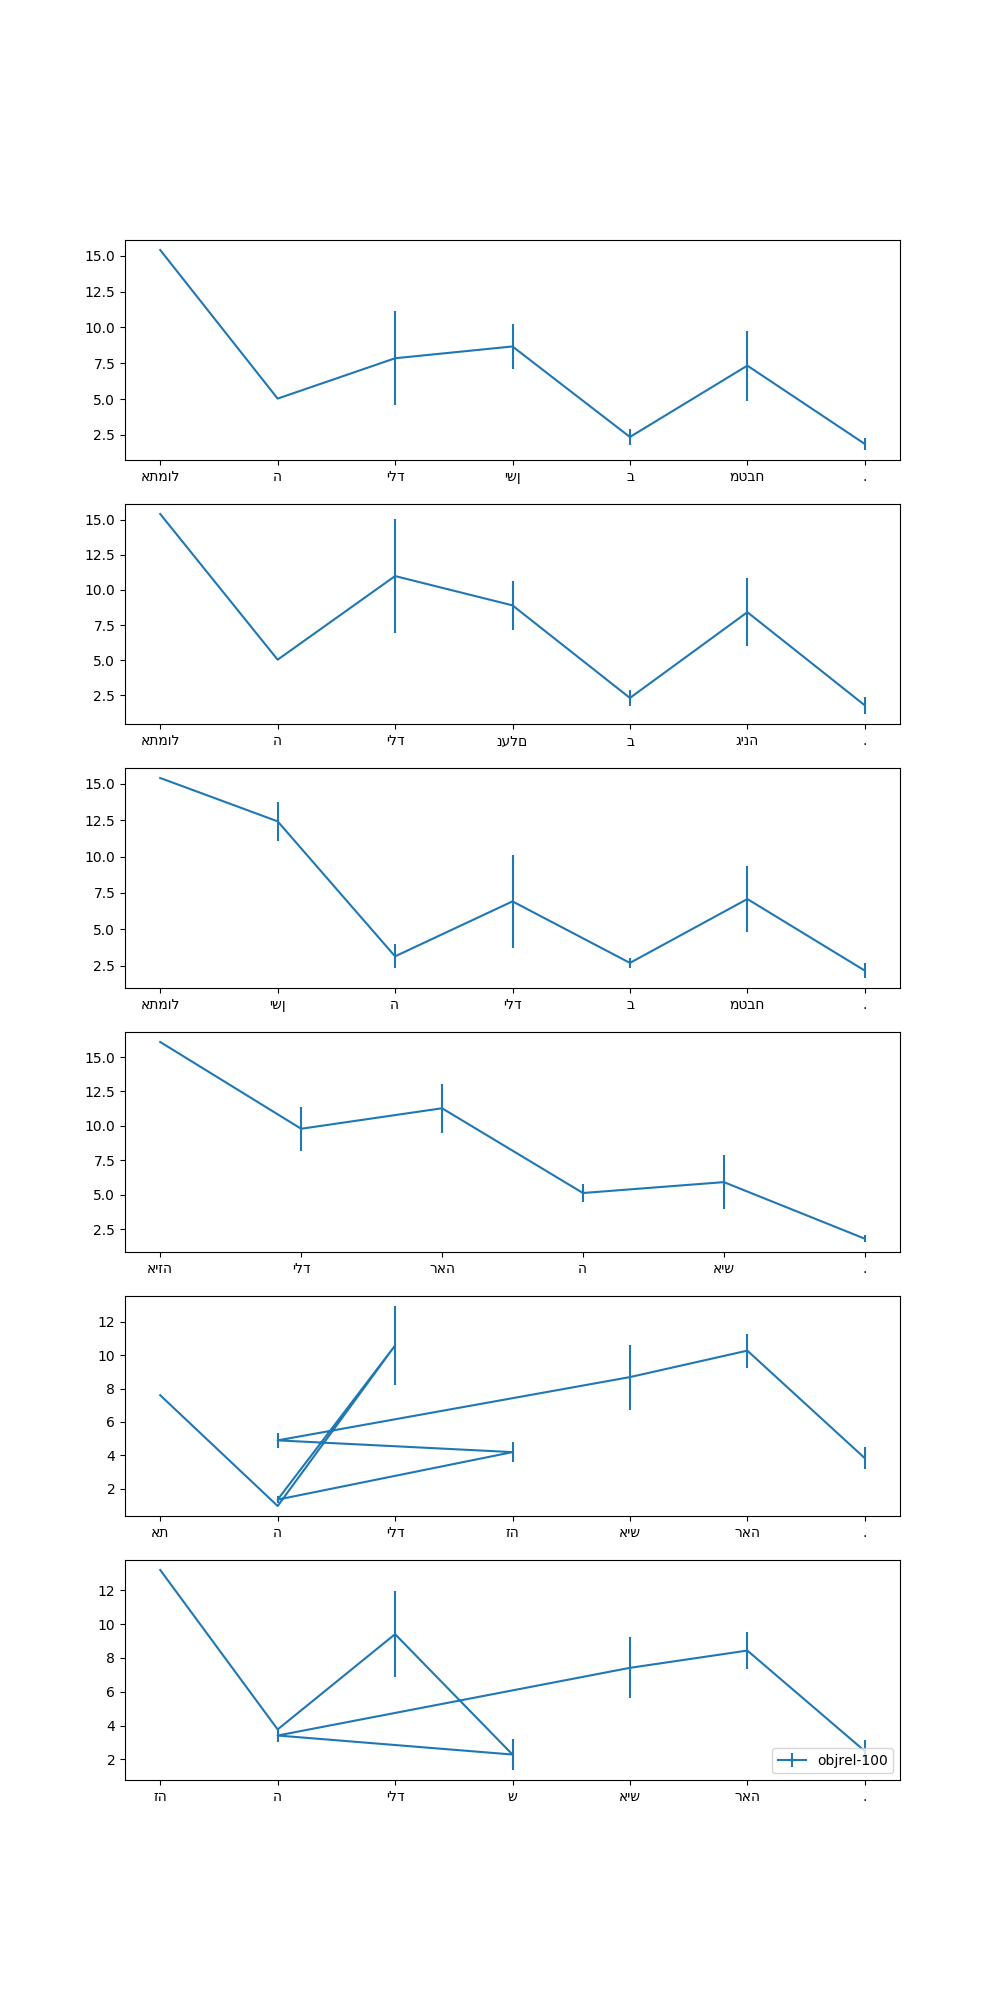
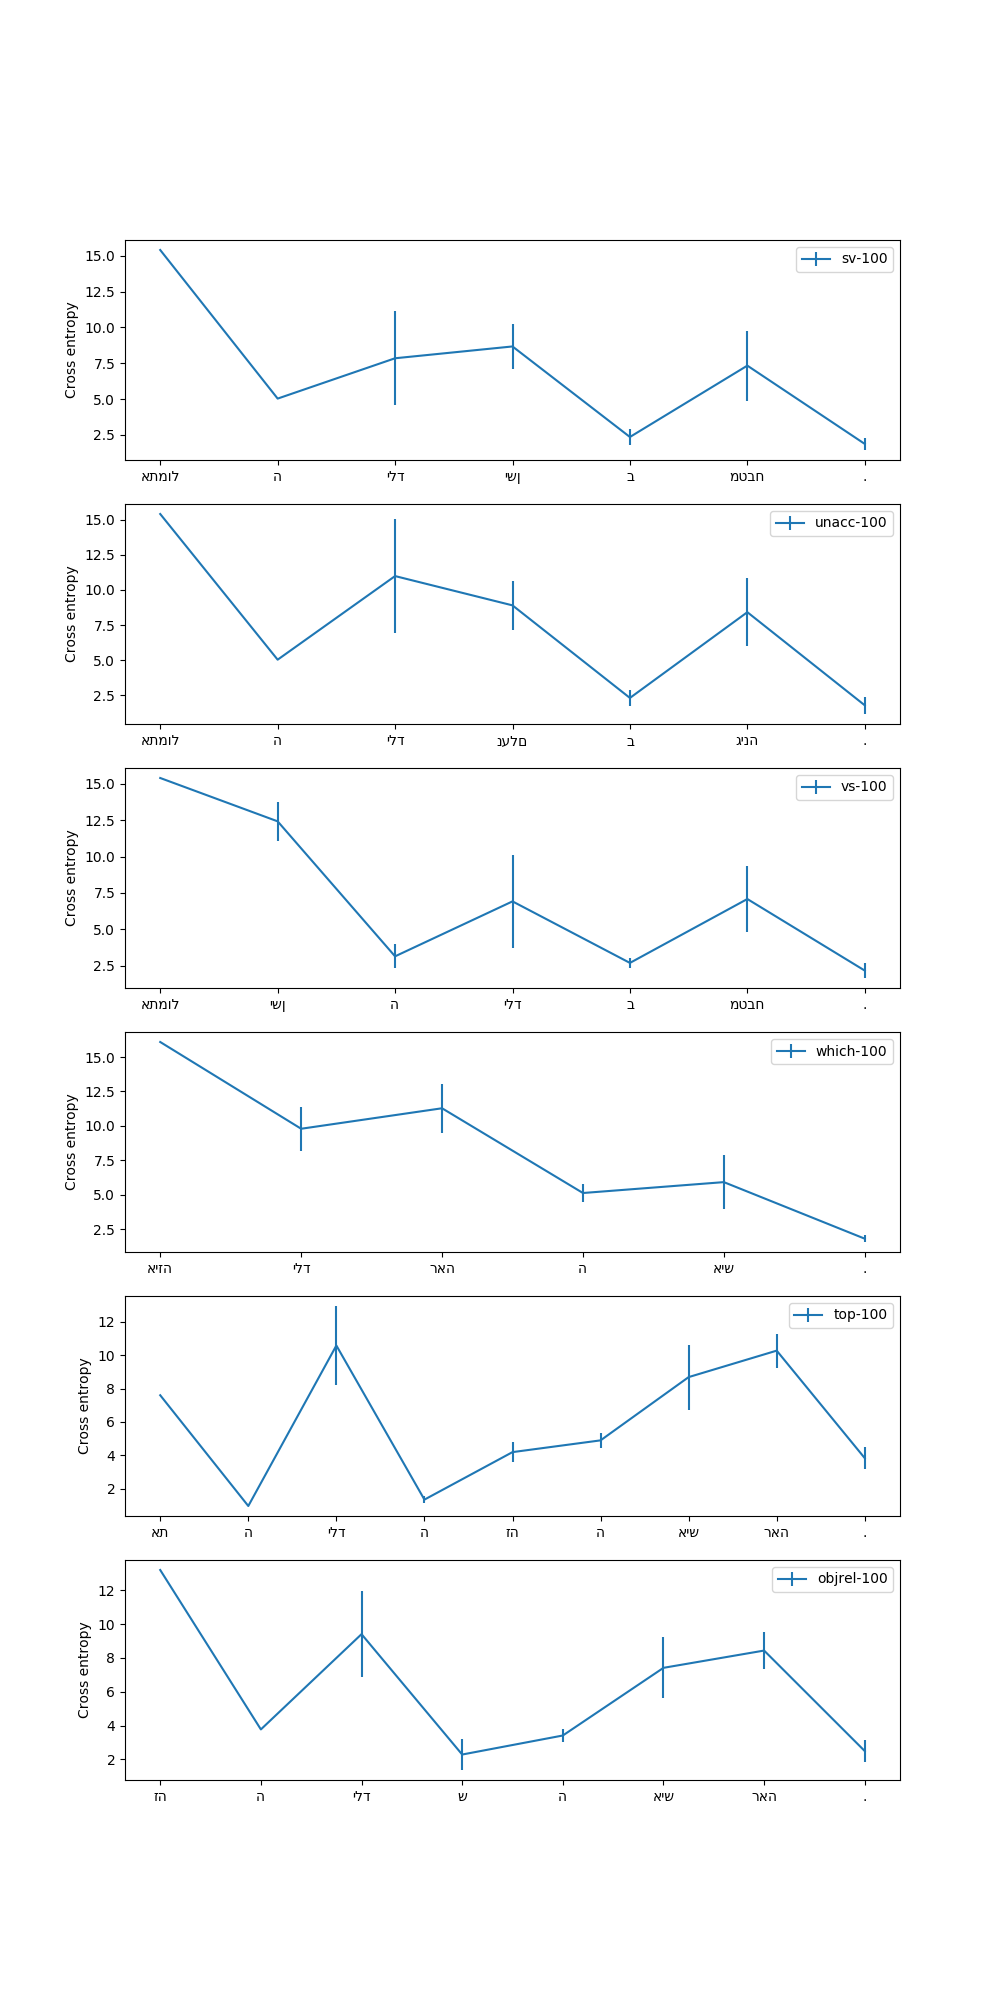
ppl plots

diff --git a/code/get_perplexities.py b/code/get_perplexities.py
@@ -3,6 +3,7 @@ import sys
 import os
 import torch
 import argparse
+import lstm
 #print(os.path.abspath(os.path.join(os.path.dirname(os.path.realpath(__file__)), '../word_language_model')))
 sys.path.append(os.path.abspath(os.path.join(os.path.dirname(os.path.realpath(__file__)), 'word_language_model')))
 import data
@@ -48,43 +49,19 @@ def feed_sentence(model, h, sentence):
 # Vocabulary
 vocab = data.Dictionary(args.vocabulary)
 
-#dir2vocab = os.path.dirname(args.vocabulary)
-#corpus = data.Corpus(dir2vocab)
-#vocab = corpus.dictionary
-#print(vocab)
-#with open(os.path.join(dir2vocab, 'vocab.txt'), 'w') as f:
-#    for item in vocab.idx2word:
-#        f.write("%s\n" % item)
-#raise()
-
-#vocab = data.Dictionary()
-#with open(os.path.join(args.vocabulary), 'r') as f:
-#    vocab.idx2word = f.readlines()
-#    vocab.idx2word = [l.strip() for l in vocab.idx2word]
-#    for (ix, w) in enumerate(vocab.idx2word):
-#        vocab.word2idx[w] = ix
-
 # Sentences
 sentences = [l.rstrip('\n').split(' ') for l in open('../data/stimuli/' + args.task + '.txt', encoding='utf-8')]
-#gold = pandas.read_csv(args.input + '.gold', sep='\t', header=None, names=['verb_pos', 'correct', 'wrong', 'nattr'])
 
 # Load model
 print('Loading models...')
-import lstm
 print('\nmodel: ' + args.model+'\n')
 model = torch.load(args.model, map_location=lambda storage, loc: storage)  # requires GPU model
 model.rnn.flatten_parameters()
 # hack the forward function to send an extra argument containing the model parameters
 model.rnn.forward = lambda input, hidden: lstm.forward(model.rnn, input, hidden)
 model_orig_state = copy.deepcopy(model.state_dict())
-
-log_p_next_word = np.zeros((len(sentences), len(sentences[0])))
-
-print(log_p_next_word.shape)
 model.load_state_dict(model_orig_state)
 stime = time.time()
-
-
 
 if args.lang == 'it':
     init_sentence = " ".join(['Ma altre caratteristiche hanno fatto in modo che si <unk> ugualmente nel contesto della musica indiana ( anche di quella \" classica \" ) . <eos>',
@@ -99,33 +76,26 @@ hidden = model.init_hidden(1)
 #init_out, init_h = feed_sentence(model, hidden, init_sentence.split(" "))
 init_out, init_h = feed_sentence(model, hidden, "<eos>")
 
-# Test: present prefix sentences and calculate probability of target verb.
+##############
+# FEED MODEL #
+##############
+log_p_next_word = np.zeros((len(sentences), len(sentences[0])))
 for i, s in enumerate(tqdm(sentences)):
     #out = None
-    # reinit hidden
     out = init_out[-1]
-
-    hidden = init_h #model.init_hidden(1)
-    # intitialize with end of sentence
-    # inp = Variable(torch.LongTensor([[vocab.word2idx['<eos>']]]))
-    # if args.cuda:
-    #     inp = inp.cuda()
-    # out, hidden = model(inp, hidden)
-    # out = torch.nn.functional.log_softmax(out[0]).unsqueeze(0)
+    hidden = init_h 
     for j, w in enumerate(s):
         if w not in vocab.word2idx and args.use_unk:
             print('Unknown word: ', w)
             w = args.unk_token
+        # store log_p of the next word before presenting it
         log_p_next_word[i, j] = out[0, 0, vocab.word2idx[w]].data.item()
         inp = Variable(torch.LongTensor([[vocab.word2idx[w]]]))
         if args.cuda:
             inp = inp.cuda()
         out, hidden = model(inp, hidden)
         out = torch.nn.functional.log_softmax(out[0]).unsqueeze(0)
-        # Store surprisal of target word
 
-# Score the performance of the model w/o ablation
-#p_difference = np.exp(log_p_targets_correct) - np.exp(log_p_targets_wrong)
 mean_ppl = np.mean(np.exp(-np.mean(log_p_next_word, axis=1)))
 std_ppl = np.std(np.exp(-np.mean(log_p_next_word, axis=1)))
 mean_ppl_per_word = np.exp(-np.mean(log_p_next_word, axis=0))

diff --git a/code/plot_perplexities.py b/code/plot_perplexities.py
@@ -33,12 +33,18 @@ for i_type, sentence_type in enumerate(sentence_types):
     num_words = len(words)
     ppls = np.asarray([float(p) for p in ppls])
     stds = np.asarray([float(s) for s in stds])
-    axs[i_type].errorbar(words, np.log(ppls), yerr=np.log(stds), label=fn)
-    #axs[i_type].set_xticks(range(num_words))
-    #axs[i_type].set_xicklabels(words)
-plt.legend(loc='lower right')
+    axs[i_type].errorbar(range(num_words), np.log(ppls), yerr=np.log(stds), label=fn)
+    axs[i_type].set_xticks(range(num_words))
+    axs[i_type].set_xticklabels(words)
+    axs[i_type].legend(loc='upper right')
+    axs[i_type].set_ylabel('Cross entropy')
 plt.savefig(os.path.join(path2figures, 'perplexity_by_word.png'))
 
+##########################
+# BARPLOT FULL SENTENCES #
+##########################
 fig_barplot, ax = plt.subplots()
-ax.bar(sentence_types, np.log(mean_ppls), yerr=np.log(std_ppls))
+barlist = ax.bar(sentence_types, np.log(mean_ppls), yerr=np.log(std_ppls))
+for i, c in enumerate(colors):
+    barlist[i].set_color(c)
 plt.savefig(os.path.join(path2figures, 'perplexity_whole_sentence.png'))

diff --git a/code/generate_stimuli.py b/code/generate_stimuli.py
@@ -215,5 +215,5 @@ if args.sentence_type == 'objrel':
         if sentence not in sentences:
             sentences.append(' '.join(sentence))
 
-
-[print(s + ' ' + '.') for s in sentences]
+punctuation = '?' if args.sentence_type in ['which'] else '.'
+[print(s + ' ' + punctuation) for s in sentences]
